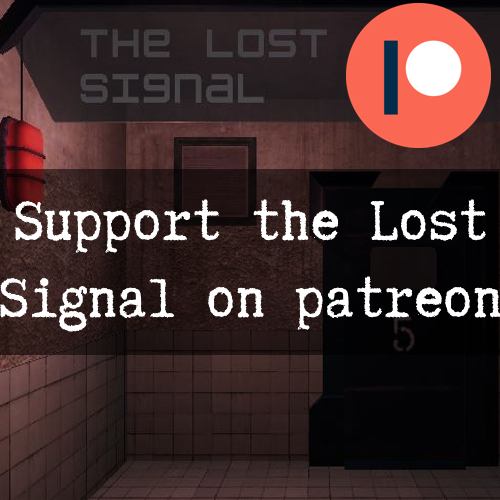
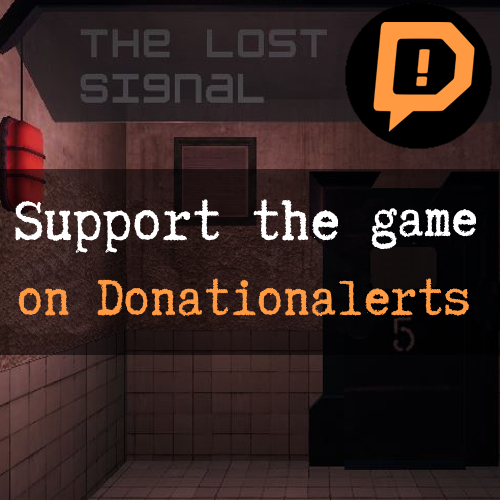
upd

Changed region(s): [[0.0, 0.54, 1.0, 0.66], [0.69, 0.0, 0.99, 0.3], [0.72, 0.39, 0.99, 0.51]]

diff --git a/AdExample/Rus.html b/AdExample/Rus.html
@@ -11,14 +11,12 @@
 var imghtml = ["https://wing13.github.io/Unity-WebGL-CPA-Ad/AdExample/Ads/1R.png",
                "https://wing13.github.io/Unity-WebGL-CPA-Ad/AdExample/Ads/2R.png",
                "https://wing13.github.io/Unity-WebGL-CPA-Ad/AdExample/Ads/1MobRus.png",
-               "https://wing13.github.io/Unity-WebGL-CPA-Ad/AdExample/Ads/2MobRus.png",
                "https://wing13.github.io/Unity-WebGL-CPA-Ad/AdExample/Ads/StarsRus.png"
               ];
  <!--В этот массив вы можете вставлять ссылки, приносящие вам деньги. Позиция в списке должна соответствовать картинке. -->
 var href = ["https://www.youtube.com/channel/UCMrorUqTRiinaw1b1VUp93Q",
             "https://www.youtube.com/channel/UCGcHUvN7g6KzddUL2o_tKjw",
             "https://boosty.to/wing13",
-            "https://cashbox.ru/r/33c37b2929dc4e7c96d4c472af75f10e",
             "https://t.me/starsobot_bot?start=389626176"
             ];
 

diff --git a/AdExample/Eng.html b/AdExample/Eng.html
@@ -9,12 +9,10 @@
 <script>
  <!--Links to images with your advertisement. Best aspect ratio: 1:1, do not use gif. -->
 var imghtml = ["https://wing13.github.io/Unity-WebGL-CPA-Ad/AdExample/Ads/1MobEng.png",
-               "https://wing13.github.io/Unity-WebGL-CPA-Ad/AdExample/Ads/2MobRus.png",
                "https://wing13.github.io/Unity-WebGL-CPA-Ad/AdExample/Ads/StarsEng.png"
               ];
  <!--You can insert links that bring you money into this array. The position in the list should correspond to the image. -->
-var href = ["https://www.patreon.com/Wing13",
-            "https://cashbox.ru/r/33c37b2929dc4e7c96d4c472af75f10e",
+var href = ["https://dalink.to/wing13gd",
             "https://t.me/starsobot_bot?start=389626176"
            ];
 
